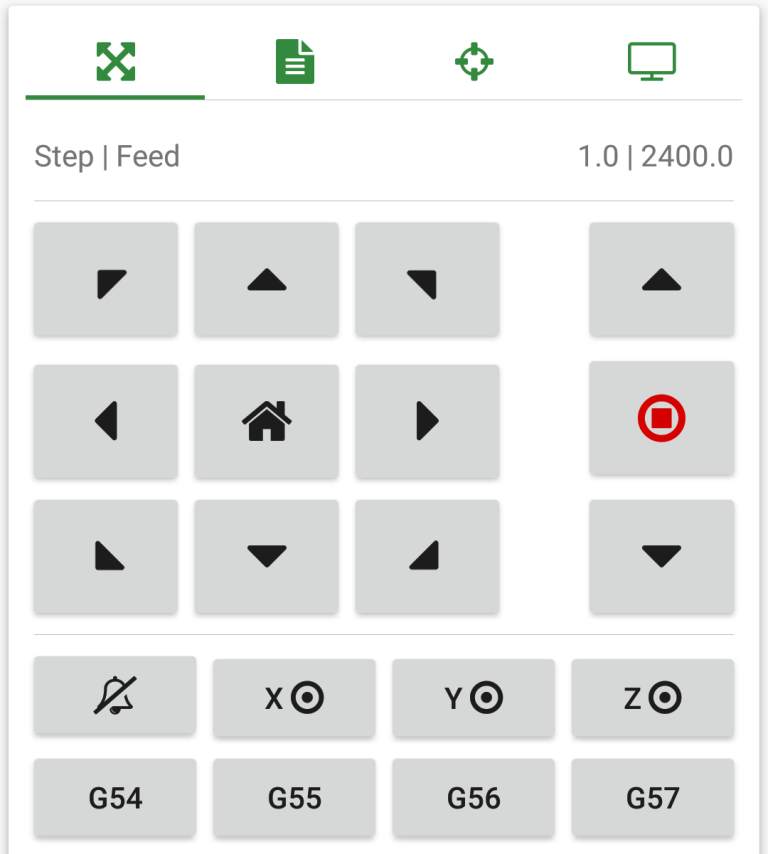
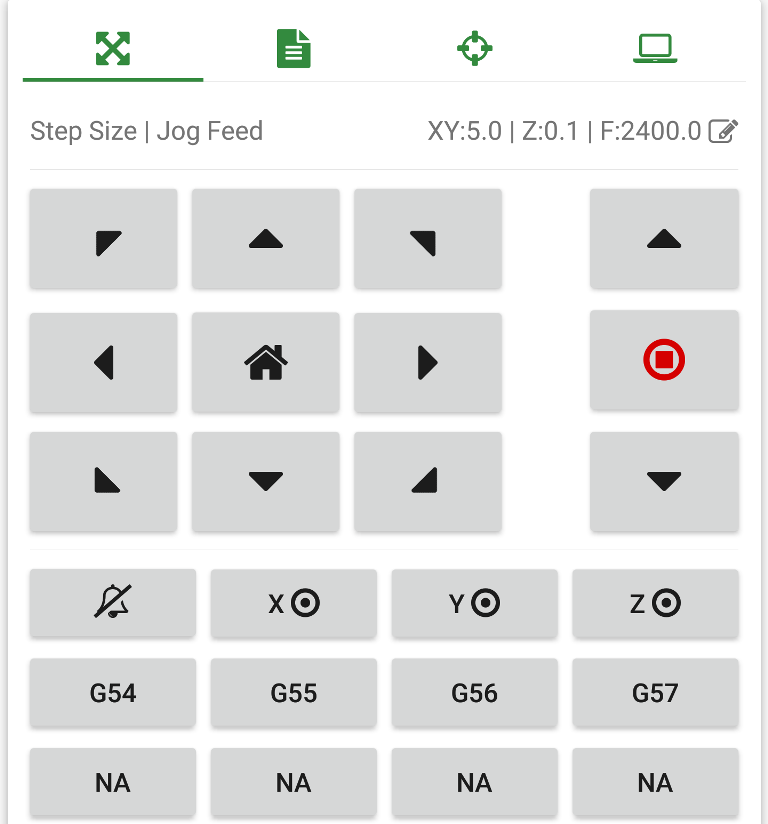
doc update

diff --git a/docs/machine-status-panel.html b/docs/machine-status-panel.html
@@ -73,45 +73,40 @@
                                     <p class="text-muted gutter-sm-top">Figure-2: Machine Status Panel Information.</p>
                                 </div>
                                 <div class="col-sm-6">
-                                    <ol>
-                                        <li>
-                                            <span class="text-info">Machine State.</span> <span class="badge">1</span>
-                                            <ul>
-                                                <li class="gutter-sm-top">Valid states types: Idle, Run, Hold, Jog, Alarm, Door, Check, Home, Sleep. If not connected to any device then it will show the state as "Unknown"</li>
-                                                <li>
-                                                    Sub-states may be included via : a colon delimiter and numeric code. 
-                                                    For a valid sub-states and information please visit <a href="https://github.com/gnea/grbl/wiki/Grbl-v1.1-Interface" target="_blank" title="Grbl Documentation - Interface">grbl documentation</a> <i class="fa fa-external-link"></i>
-                                                </li>
-                                            </ul>
-                                        </li>
-
+                                    <h4>Machine State <span class="badge">1</span></h4>
+                                    <ul class="gutter-sm-top">
+                                        <li class="gutter-sm-top">Valid states types: Idle, Run, Hold, Jog, Alarm, Door, Check, Home, Sleep. If not connected to any device then it will show the state as "Unknown"</li>
                                         <li class="gutter-sm-top">
-                                            <span class="text-info">Machine Position and Work Position.</span> <span class="badge">2</span> <span class="badge">3</span>
-                                            <ul>
-                                                <li class="gutter-sm-top">
-                                                    This section shows the current machine and work position of <span class="text-info">X</span>, <span class="text-info">Y</span> and <span class="text-info">Z</span> axis.
-                                                    Axis labels <span class="badge">4</span> <span class="text-danger">X</span>, <span class="text-danger">Y</span> and <span class="text-danger">Z</span>. 
-                                                    will turns to red color if corresponding axis limit switch is triggered. 
-                                                    Work position and machine position of the axis Z will turn to red color if tool length offset (TLO) is active on the Z-Axis.
-                                                </li>
-                                            </ul>
+                                            Sub-states may be included via : a colon delimiter and numeric code. 
+                                            For a valid sub-states and information please visit <a href="https://github.com/gnea/grbl/wiki/Grbl-v1.1-Interface" target="_blank" title="Grbl Documentation - Interface">grbl documentation</a> <i class="fa fa-external-link"></i>
                                         </li>
-
+                                    </ul>
+                                    
+                                    <h4>Machine Position and Work Position. <span class="badge">2</span> <span class="badge">3</span></h4>
+                                    
+                                    <ul>
                                         <li class="gutter-sm-top">
-                                            <span class="text-info">G-Code Parser State.</span> <span class="badge">5</span>
-                                            <ul>
-                                                <li class="gutter-sm-top">
-                                                    The selected coordinate system G54 or G55 or G56 or G57 or G58 or G59
-                                                </li>
-                                                <li>
-                                                    Unit Mode G20 (inches) or G21 (millimeters)
-                                                </li>
-                                                <li>
-                                                    Distance Mode. G90 absolute distance mode or G91 incremental distance mode
-                                                </li>
-                                            </ul>
+                                            This section shows the current machine and work position of <span class="text-info">X</span>, <span class="text-info">Y</span> and <span class="text-info">Z</span> axis.
+                                            Axis labels <span class="badge">4</span> <span class="text-danger">X</span>, <span class="text-danger">Y</span> and <span class="text-danger">Z</span>. 
+                                            will turns to red color if corresponding axis limit switch is triggered. 
+                                            Work position and machine position of the axis Z will turn to red color if tool length offset (TLO) is active on the Z-Axis.
                                         </li>
-
+                                    </ul>
+                                    
+                                    <h4>G-Code Parser State. <span class="badge">5</span></h4>
+                                    <ul>
+                                        <li class="gutter-sm-top">
+                                            The selected coordinate system G54 or G55 or G56 or G57 or G58 or G59
+                                        </li>
+                                        <li class="gutter-sm-top">
+                                            Unit Mode G20 (inches) or G21 (millimeters)
+                                        </li>
+                                        <li class="gutter-sm-top">
+                                            Distance Mode. G90 absolute distance mode or G91 incremental distance mode
+                                        </li>
+                                    </ul>
+                                    
+                                    <ul>
                                         <li class="gutter-sm-top">
                                             <span class="text-info">Current Feed Rate</span> <span class="badge">6</span>
                                         </li>
@@ -119,7 +114,7 @@
                                         <li class="gutter-sm-top">
                                             <span class="text-info">Buffer State. (Planner buffer | Serial RX buffer)</span> <span class="badge">7</span>
                                         </li>
-                                    </ol>
+                                    </ul>
                                 </div>
                             </div>
                             

diff --git a/docs/jogging-control-panel.html b/docs/jogging-control-panel.html
@@ -31,7 +31,7 @@
                                 <h3>Jogging control, homing and return to zero</h3>
                                 <ul>
                                     <li class="gutter-sm-top">
-                                        <code>Step | Feed</code> Jogging step and feed rate can be adjusted here. 
+                                        <code>Step Size | Jog Feed</code> adjust jogging step and feed rate here. 
                                         Max feed rate value depends on the machine settings.
                                         Max step size can be configured in settings.
                                     </li> 
@@ -228,6 +228,90 @@
                                         </ol>
                                     </li>
                                     
+                                </ul>
+                            </div>
+                        </div>
+                        
+                        <div class="row">
+                            <div class="col-sm-6">
+                                <div class="gutter-lg-top">
+                                    <img src="images/joggin_step_and_feed.png" class="img-responsive img-rounded" alt="Jogging step size and feed adjust dialog" />
+                                </div>
+                                <p class="text-muted gutter-sm-top">Figure-2: Jogging step size and feed adjust dialog</p>
+                            </div>
+                            <div class="col-sm-6">
+                                <h3>Jogging step size and feed rate adjusting</h3>
+                                <p>
+                                    This dialog pops upon clicking <code>Step Size | Jog Feed</code>
+                                </p>
+                                <ul class="gutter-sm-top">
+                                    <li class="gutter-sm-top">
+                                        <code>Inches</code> When turned on machine units for jogging is set to "Inches"
+                                    </li>
+                                    <li class="gutter-sm-top">
+                                        To adjust the X and Y axis step size slide the <code>XY: </code> progress bar.<br />
+                                    </li>
+                                    <li class="gutter-sm-top">
+                                        To adjust the Z axis step size slide the <code>Z: </code> progress bar.<br />
+                                    </li>
+                                    <li class="gutter-sm-top">
+                                        To adjust the jogging feed rate slide the <code>Feed: </code> progress bar.<br />
+                                    </li>
+                                </ul>
+                                <p class="text-warning">
+                                    NOTE: Maximum value of X, Y and Z axis progress bar can be configured in application settings.
+                                <p>
+                                    
+                                </p>
+                                <h4 class="gutter-lg-top">Quick step setting buttons</h4>
+                                <p>
+                                    Quick buttons are provide to set the step size to a predefined value. Value of each button can be set in application settings.
+                                </p>
+                                <ul class="gutter-sm-top">
+                                    <li class="gutter-sm-top">
+                                        <code class="btn btn-xs">XY: Low</code>
+                                        <ol class="gutter-sm-top">
+                                            <li>Short Click: Sets the configured low value as X and Y axis step size.</li>
+                                            <li>Long Click: Changes the pre-configured low value to current XY progress bar value</li>
+                                        </ol>
+                                    </li>
+                                    <li class="gutter-sm-top">
+                                        <code class="btn btn-xs">XY: Medium</code>
+                                        <ol class="gutter-sm-top">
+                                            <li>Short Click: Sets the configured medium value as X and Y axis step size.</li>
+                                            <li>Long Click: Changes the pre-configured medium value to current XY progress bar value</li>
+                                        </ol>
+                                    </li>
+                                    <li class="gutter-sm-top">
+                                        <code class="btn btn-xs">XY: High</code>
+                                        <ol class="gutter-sm-top">
+                                            <li>Short Click: Sets the configured high value as X and Y axis step size.</li>
+                                            <li>Long Click: Changes the pre-configured high value to current XY progress bar value</li>
+                                        </ol>
+                                    </li>
+                                </ul>
+                                <ul class="gutter-sm-top">
+                                    <li class="gutter-sm-top">
+                                        <code class="btn btn-xs">Z: Low</code>
+                                        <ol class="gutter-sm-top">
+                                            <li>Short Click: Sets the configured low value as X axis step size.</li>
+                                            <li>Long Click: Changes the pre-configured low value to current Z progress bar value</li>
+                                        </ol>
+                                    </li>
+                                    <li class="gutter-sm-top">
+                                        <code class="btn btn-xs">Z: Medium</code>
+                                        <ol class="gutter-sm-top">
+                                            <li>Short Click: Sets the configured medium value as Z axis step size.</li>
+                                            <li>Long Click: Changes the pre-configured medium value to current Z progress bar value</li>
+                                        </ol>
+                                    </li>
+                                    <li class="gutter-sm-top">
+                                        <code class="btn btn-xs">Z: High</code>
+                                        <ol class="gutter-sm-top">
+                                            <li>Short Click: Sets the configured high value as Z axis step size.</li>
+                                            <li>Long Click: Changes the pre-configured high value to current Z progress bar value</li>
+                                        </ol>
+                                    </li>
                                 </ul>
                             </div>
                         </div>

diff --git a/docs/console-interface.html b/docs/console-interface.html
@@ -32,6 +32,22 @@
                                     <li class="gutter-md-top">
                                         <code>Verbose output</code> When enabled it will show the grbl status reports in console logger
                                     </li>
+                                </ul>
+                                
+                                <h4>Machine status buttons</h4>
+                                <ul class="gutter-sm-top">
+                                    <li class="gutter-sm-top">
+                                        <code class="btn btn-xs">&nbsp;$$&nbsp;</code> View Grbl settings
+                                    </li>
+                                    <li class="gutter-sm-top">
+                                        <code class="btn btn-xs">&nbsp;$#&nbsp;</code> View gcode parameters
+                                    </li>
+                                    <li class="gutter-sm-top">
+                                        <code class="btn btn-xs">&nbsp;$G&nbsp;</code> View gcode parser state
+                                    </li>
+                                    <li class="gutter-sm-top">
+                                        <code class="btn btn-xs">&nbsp;$I&nbsp;</code> View build info
+                                    </li>
                                     <li class="gutter-md-top">
                                         <code class="btn btn-xs">&nbsp;<i class="fa fa-paper-plane"></i>&nbsp;</code> Custom command send button.
                                         <ol>
@@ -43,28 +59,28 @@
                                             </li>
                                         </ol>
                                     </li>
-                                    <li class="gutter-lg-top help-block">
-                                        NOTES:
-                                        <ol>
-                                            <li class="gutter-md-top">
-                                                Not all messages from grbl are printed to console interface.
-                                            </li>
-                                            <li class="gutter-md-top">
-                                                Currently you can only see recent 128 entries in the console logger, this is done to reduce the memory consumption of the application.
-                                            </li>
-                                            <li class="gutter-md-top">
-                                                Sometimes custom command input box and send button <code class="btn btn-xs">&nbsp;<i class="fa fa-paper-plane"></i>&nbsp;</code> will not appear, then you need to click on any other tabs except the "probing tab <i class="fa fa-crosshairs"></i>" and come back again.
-                                            </li>
-                                            <li class="gutter-md-top">
-                                                Custom command will be parsed before sending to grbl, parser will remove any white space or comments and will capitalize the letters.
-                                            </li>
-                                            <li class="gutter-md-top">
-                                                Depending on the custom command you are sending application may also send some other commands like "$G or $#" to get the recent status of the machine. 
-                                            </li>
-                                        </ol>
-                                    </li>
                                 </ul>
                                 
+                                <div class="help-block">
+                                    NOTES:
+                                    <ol>
+                                        <li class="gutter-md-top">
+                                            Not all messages from grbl are printed to console interface.
+                                        </li>
+                                        <li class="gutter-md-top">
+                                            Currently you can only see recent 128 entries in the console logger, this is done to reduce the memory consumption of the application.
+                                        </li>
+                                        <li class="gutter-md-top">
+                                            Sometimes custom command input box and send button <code class="btn btn-xs">&nbsp;<i class="fa fa-paper-plane"></i>&nbsp;</code> will not appear, then you need to click on any other tabs except the "probing tab <i class="fa fa-crosshairs"></i>" and come back again.
+                                        </li>
+                                        <li class="gutter-md-top">
+                                            Custom command will be parsed before sending to grbl, parser will remove any white space or comments and will capitalize the letters.
+                                        </li>
+                                        <li class="gutter-md-top">
+                                            Depending on the custom command you are sending application may also send some additional commands like "$G or $#" to get the recent status of the machine. 
+                                        </li>
+                                    </ol>
+                                </div>
                             </div>
                         </div>
 

diff --git a/docs/application-settings.html b/docs/application-settings.html
@@ -54,8 +54,13 @@
                                     </li>
                                     
                                     <li class="gutter-md-top">
-                                        <code><i class="fa fa-list-ol"></i> Jogging max step size</code><br />
-                                        Maximum size of step selection bar in the jogging control panel. If you need fine adjustment to step size then select lower value.
+                                        <code><i class="fa fa-list-ol"></i> Jogging max step size for XY</code><br />
+                                        Maximum size of XY step progress bar in the jogging control panel. If you need fine adjustment then select lower value.
+                                    </li>
+                                    
+                                    <li class="gutter-md-top">
+                                        <code><i class="fa fa-list-ol"></i> Jogging max step size for Z</code><br />
+                                        Maximum size of Z step progress bar in the jogging control panel. If you need fine adjustment then select lower value.
                                     </li>
                                     
                                     <li class="gutter-md-top">
@@ -68,7 +73,8 @@
                                         The behaviour of streaming stop button when you click on it
                                         <ul style="list-style: disc;">
                                             <li class="gutter-sm-top">
-                                                Just stop streaming: Application just stops the file streaming, machine may continue to run until its buffer gets empty.
+                                                Just stop streaming: Application just stops the file streaming, machine may continue to run until its buffer gets empty.<br />
+                                                <p class="text-danger">NOTE: Laser/Spindle will not be stopped</p>
                                             </li>
                                             <li class="gutter-sm-top">
                                                 Stop streaming and do soft reset: Application stops file streaming and soft resets the machine. Machine position will be lost, you may need to do homing again.
@@ -111,6 +117,21 @@
                                                 </p>
                                             </li>
                                         </ul>
+                                    </li>
+                                    
+                                    <li class="gutter-md-top">
+                                        <code><i class="fa fa-list-ol"></i> Quick jog step buttons</code>
+                                        <p class="help-block">
+                                            Quick step setting buttons 
+                                            <code class="btn btn-xs">XY: Low</code>, 
+                                            <code class="btn btn-xs">XY: Medium</code>,
+                                            <code class="btn btn-xs">XY: High</code>,
+                                            <code class="btn btn-xs">Z: Low</code>,
+                                            <code class="btn btn-xs">Z: Medium</code> and 
+                                            <code class="btn btn-xs">Z: High</code>
+                                            are given to XY and Z axis step progress bar in jogging panel.
+                                            You can set the value to those buttons here
+                                        </p>
                                     </li>
                                 </ol>
                             </div>
